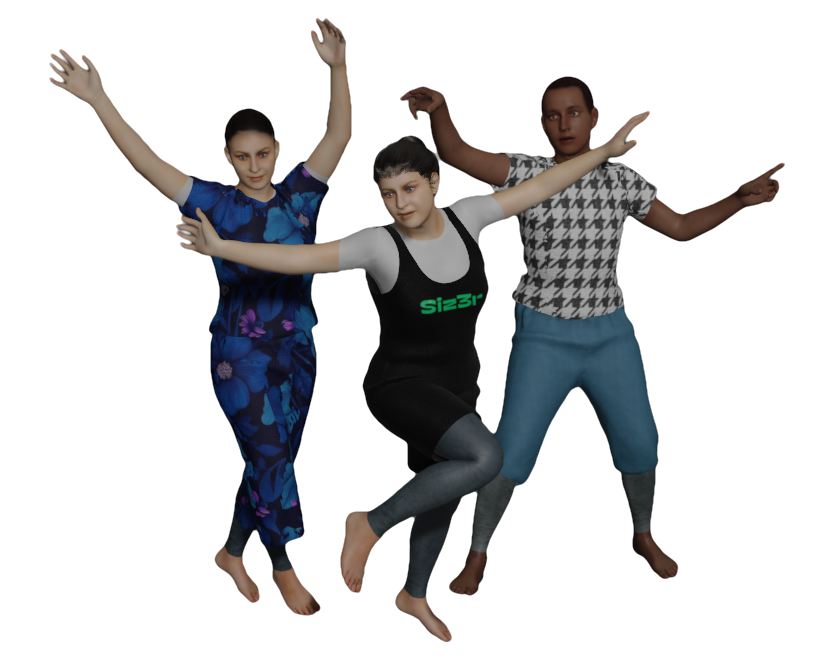
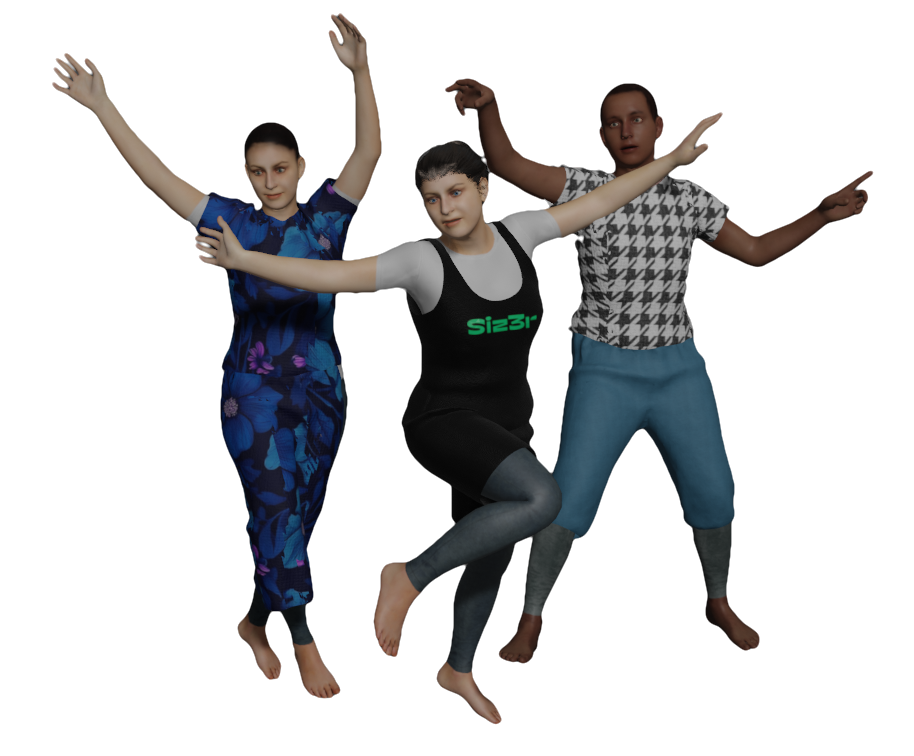
photos

diff --git a/app/business/page.js b/app/business/page.js
@@ -258,7 +258,7 @@ export default function Business(props) {
         <Component md={4}>
           <Image
             md={12}
-            src={"/benefits/k3.jpg"}
+            src={"/benefits/k3.png"}
             // height={"40vh"}
             width={"100%"}
             gridStyle={{
